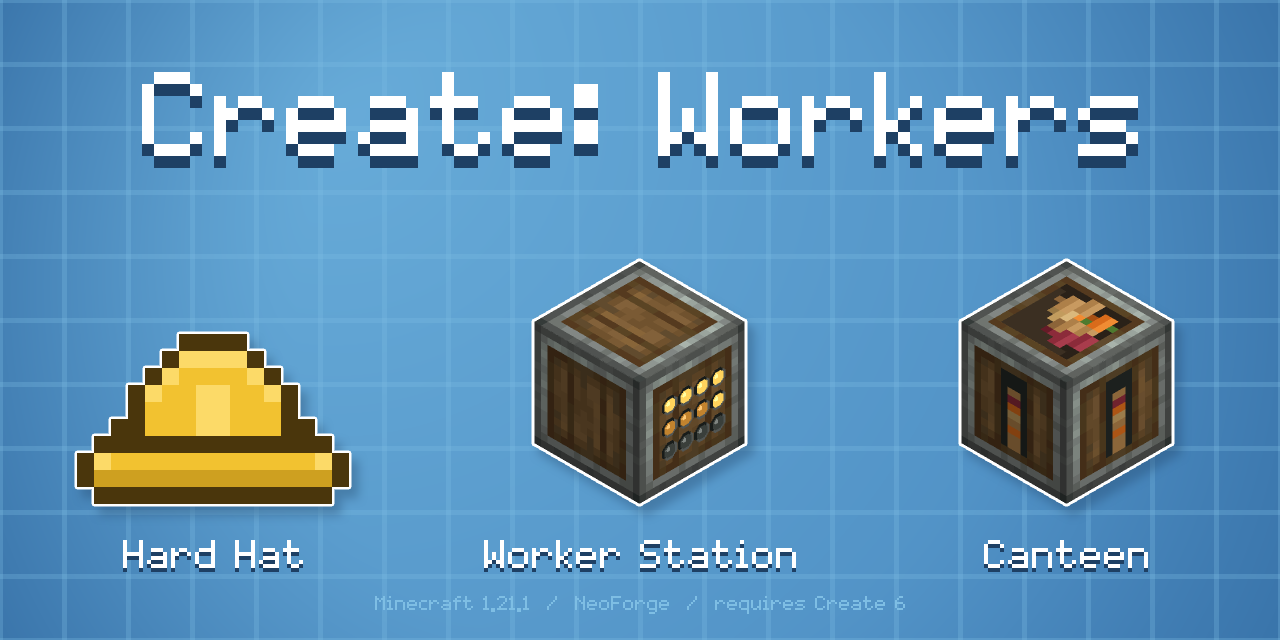
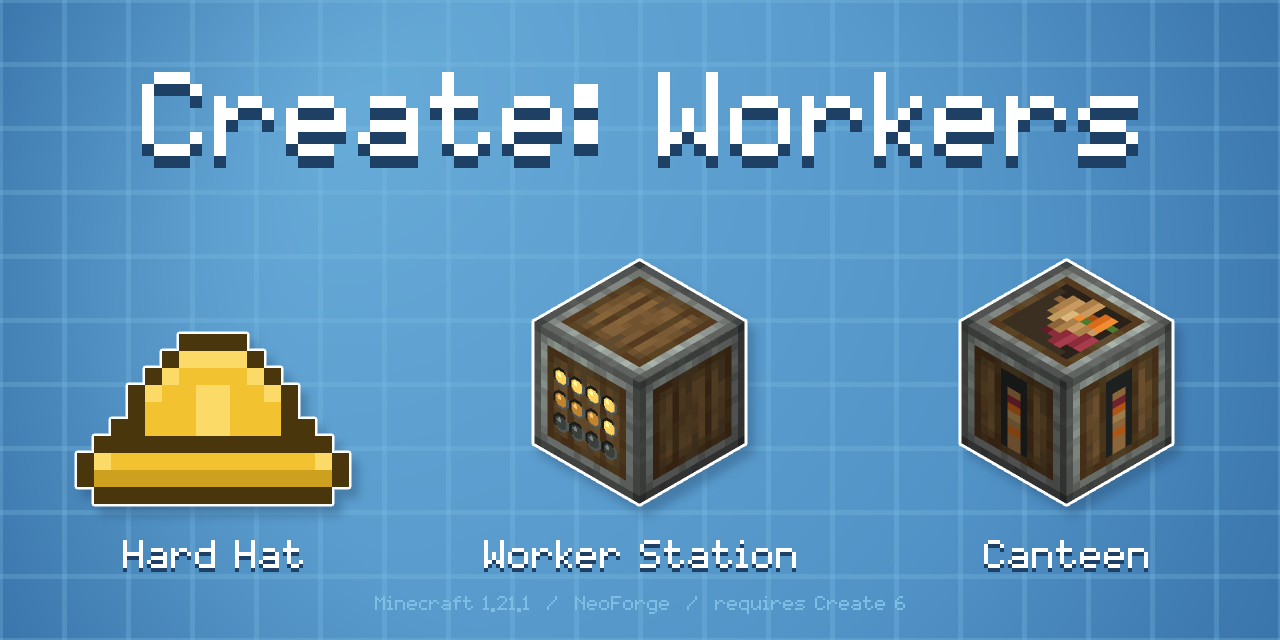
Draw the page's blocks the way the game draws them
Two halves of one fault: every picture on the project page was of a block
nobody can have, and neither is wrong in a way that looks wrong.

A recipe's result is an item, and the item model is already the baked
readout -- generate_block_textures writes the unlit lamps and the empty
gauges into it precisely because a block entity renderer does not exist in
an inventory. Sprites.icon drew the *block* model instead, so the Canteen's
recipe card had no gauges on its flanks at all. It reads models/item now,
and LOCAL_MARKS goes with it: the Station no longer needs its lamps
supplied, it has the real sprite sheet. An item model with no elements
(the hat) still falls through to its flat sprite.

And a turn belongs to the block. The Station's item model turns its icon a
quarter the other way so the lamps land on the lit flank, and the page knew
nothing about it -- banner, card and recipe all had the lamps on the right
while every player's inventory has them on the left. icon_camera reads
display.gui's yaw out of the item model and turns the house camera by it,
keeping the house pitch, which is the angle the three sheets share. What
the page restates is only that its angle and vanilla's agree about which
way round a block is, asserted at import because out of step every block
would turn a quarter the wrong way and look exactly like this bug.

Checked against the game's own arithmetic rather than by eye: for both
[…]

Changed region(s): [[0.4062, 0.4375, 0.5938, 0.75]]

diff --git a/tools/generate_page_art.py b/tools/generate_page_art.py
@@ -65,13 +65,15 @@ sys.path.insert(0, os.path.dirname(os.path.abspath(__file__)))
 
 import pixel_font  # noqa: E402
 import render_block_model  # noqa: E402
-from generate_block_textures import LAMP_SIZE, lamp_spots, stock  # noqa: E402
+from generate_block_textures import (LAMP_SIZE, VANILLA_TURN, lamp_spots,  # noqa: E402
+                                     spun, stock)
 from generate_logo import (FIELD, FIELD_DEEP, FIELD_LIGHT, GRID, GRID_ALPHA,  # noqa: E402
                            SHADOW, WHITE, decode_png, lerp, read_png, write_png)
 
 ASSETS = 'src/main/resources/assets/createworkers'
 LANG = ASSETS + '/lang/en_us.json'
 MODELS = ASSETS + '/models/block'
+ITEM_MODELS = ASSETS + '/models/item'
 TEXTURES = ASSETS + '/textures'
 
 # The lamps are drawn on the Station's front face by WorkerStationRenderer, not by the
@@ -160,16 +162,6 @@ RECIPES = 'src/main/resources/data/createworkers/recipe'
 # these", and naming them here keeps the choice in one place rather than in a layout.
 TAG_STAND_INS = {
     'minecraft:planks': 'minecraft:oak_planks',
-}
-
-# Blocks of ours whose face is drawn by a renderer rather than by the model, and so
-# need their indicators supplied before they look like the block a player sees.
-#
-# The Canteen is deliberately not here, although its faces are drawn the same way: the only
-# place a block icon appears is as a crafting recipe's result, and a Canteen that has just
-# been crafted really is empty. Its card gets a stocked one because a card is a portrait.
-LOCAL_MARKS = {
-    'worker_station': STATION_MARKS,
 }
 
 # The tagline lives in docs/curseforge-page.md, not here. It was on the banner and made
@@ -282,6 +274,45 @@ def model_extent(path, camera):
     return max(xs) - min(xs), max(ys) - min(ys)
 
 
+# The house angle. All three sheets are drawn at it, because they are a set and a block
+# photographed from somewhere else would read as a different drawing.
+ISO = render_block_model.ANGLES['iso']
+
+# The turn below is a yaw read off vanilla's convention and applied to this page's camera,
+# which is sound only while the two agree about which way round a block is. They do:
+# vanilla's default turn puts a block's north face on the right of its icon -- which is what
+# check_icon_lighting() reasons about -- and so does the house isometric. Out of step, every
+# block here would be turned a quarter the wrong way, which is the very fault icon_camera is
+# there to fix and indistinguishable from it in the picture.
+assert render_block_model.dot((0.0, 0.0, -1.0), render_block_model.View(1.0, ISO).right) > 0, \
+    'the house angle no longer puts a north face on the right; an icon yaw cannot be reused'
+
+
+def icon_camera(name):
+    """The house isometric, turned to show the face the game's own icon shows.
+
+    A block whose front is a readout turns its inventory icon so that face lands on the lit
+    side -- `display.gui` in its item model, which generate_block_textures writes. The page
+    has to make the same turn or it draws the block from behind: every picture here had the
+    Station's lamps on the right while every player's inventory had them on the left, which
+    is not so much a wrong block as a block nobody recognises. A card is a portrait and may
+    stock a Canteen the game would not, but it may not photograph a block back to front.
+
+    What is taken is the **yaw** alone, read rather than restated, so a block turned in the
+    game is turned on the page by re-running this. The pitch stays the house one -- a true
+    isometric against the icon's thirty degrees -- because that is the angle the sheets
+    share, and which way round a block is, is the half a player would notice.
+    """
+    turn = VANILLA_TURN[1]
+    path = os.path.join(ITEM_MODELS, name + '.json')
+    if os.path.exists(path):
+        with open(path) as handle:
+            gui = json.load(handle).get('display', {}).get('gui')
+        if gui:
+            turn = gui['rotation'][1]
+    return spun(ISO, 'y', math.radians(VANILLA_TURN[1] - turn))
+
+
 def subject_art(subject, mass, box):
     """One entry's picture, as RGBA rows, drawn at `mass` and clamped to `box`.
 
@@ -304,7 +335,7 @@ def subject_art(subject, mass, box):
         # square, which is the one thing generate_logo.py exists to avoid as well.
         return sprite(subject['sprite'], max(1, int(scale)))
 
-    camera = render_block_model.ANGLES['iso']
+    camera = icon_camera(os.path.splitext(os.path.basename(subject['model']))[0])
     span_width, span_height = model_extent(subject['model'], camera)
     size = min(mass / math.sqrt(span_width * span_height),
                limit_width / span_width, limit_height / span_height)
@@ -615,15 +646,21 @@ class Sprites:
 
         # One of this mod's own blocks is drawn from its model, the way the inventory
         # draws it -- there is no flat sprite to find, because the block wears four
-        # different textures. An unprogrammed Station is what comes out of a crafting
-        # table, so its lamps are all off, which is what `lit`/`dim` left at zero says.
-        local_model = os.path.join(MODELS, name + '.json')
-        if namespace == 'createworkers' and os.path.exists(local_model):
-            camera = render_block_model.ANGLES['iso']
+        # different textures. It is the *item* model, which is the file the game itself
+        # puts in a result slot: a block entity renderer does not exist in an inventory,
+        # so the unlit lamps and the empty gauges a player sees on a freshly crafted
+        # block are baked into that model and are in no other. The block model was drawn
+        # here instead and shipped a Canteen with no gauges at all -- a block nobody has,
+        # which is quieter than a wrong one because nothing in the picture looks broken.
+        # An item model with no geometry (the hat) is an ordinary flat sprite and falls
+        # through to the sheet below.
+        local_model = os.path.join(ITEM_MODELS, name + '.json')
+        if namespace == 'createworkers' and has_geometry(local_model):
+            camera = icon_camera(name)
             span_width, span_height = model_extent(local_model, camera)
             art = render_block_model.render(
                 local_model, int(round(min(size / span_width, size / span_height))),
-                None, camera, marks=LOCAL_MARKS.get(name))
+                None, camera)
             self.cache[identifier] = (size, art)
             return art
 
@@ -648,6 +685,14 @@ class Sprites:
 
         self.cache[identifier] = (size, art)
         return art
+
+
+def has_geometry(path):
+    """Whether an item model draws boxes of its own rather than a flat sprite."""
+    if not os.path.exists(path):
+        return False
+    with open(path) as handle:
+        return bool(json.load(handle).get('elements'))
 
 
 def cube_model(reference):

diff --git a/CLAUDE.md b/CLAUDE.md
@@ -715,6 +715,12 @@ Releases go out through `publishMods` (`me.modmuss50.mod-publish-plugin`), drive
   **A `sheets` key may name a face**, `(reference, 'north')`, and the gauge is why: both blocks wear one
   casing sheet on all six faces, so a gauge painted into it bare would appear on the top and the bottom
   too. Mutation-checked nine ways, including a heap shifted onto the frame and a bezel a row out.
+  **A recipe's result is the one picture that must not be handed anything**, and it was: a result
+  slot holds an item, and the item model is already the baked readout — unlit lamps, empty gauges —
+  so `Sprites.icon` reads `models/item/<name>.json` and draws that. It drew the *block* model, which
+  put a Canteen with no gauges at all on its recipe card, a block nobody has. The marks route is for
+  the cards alone now, where a portrait wants a working Station and a stocked Canteen rather than a
+  freshly crafted one. An item model with no `elements` (the hat) falls through to its flat sprite.
 
 - **The bezel belongs to the lamp sprite, never to the block's sheet.** A socket painted on a texture
   has to sit on a whole texel, so four of them across a fourteen-pixel panel cannot be evenly spaced —
@@ -1094,6 +1100,18 @@ Releases go out through `publishMods` (`me.modmuss50.mod-publish-plugin`), drive
   the readout lands on the lit flank. Mutation-checked four ways, the shipped angle among them.
   Nothing else could catch it: the grid checks put every lamp exactly where the renderer would draw
   it, and go on passing with the lot of them in shadow.
+  **And a turn belongs to the block, so the project page has to make it too.** `generate_page_art`
+  drew every sheet at its own house isometric, which agrees with vanilla's default — so the banner,
+  the card and the recipe all had the Station's lamps on the **right** while every player's inventory
+  had them on the left. Not a wrong block so much as a block nobody recognises, and a card is allowed
+  to stock a Canteen the game would not but is not allowed to photograph a block back to front.
+  `icon_camera` reads `display.gui`'s **yaw** out of the item model and turns the house camera by it,
+  keeping the house *pitch* — a true isometric against the icon's thirty degrees — because the angle
+  is what the three sheets share and which way round a block is, is the half a player would notice.
+  Read rather than restated, so a block turned in the game is turned on the page by re-running it;
+  what the page does restate is that its angle and vanilla's agree about which way round a block is,
+  which is asserted at import because out of step every block would turn a quarter the wrong way and
+  look exactly like the fault being fixed.
 
 - **The welcome ration is once per villager, and `isEmployed()` cannot say so.** A new hire turns
   up with `STARTING_RATIONS` already eaten, because starting empty makes a villager hungry within a
